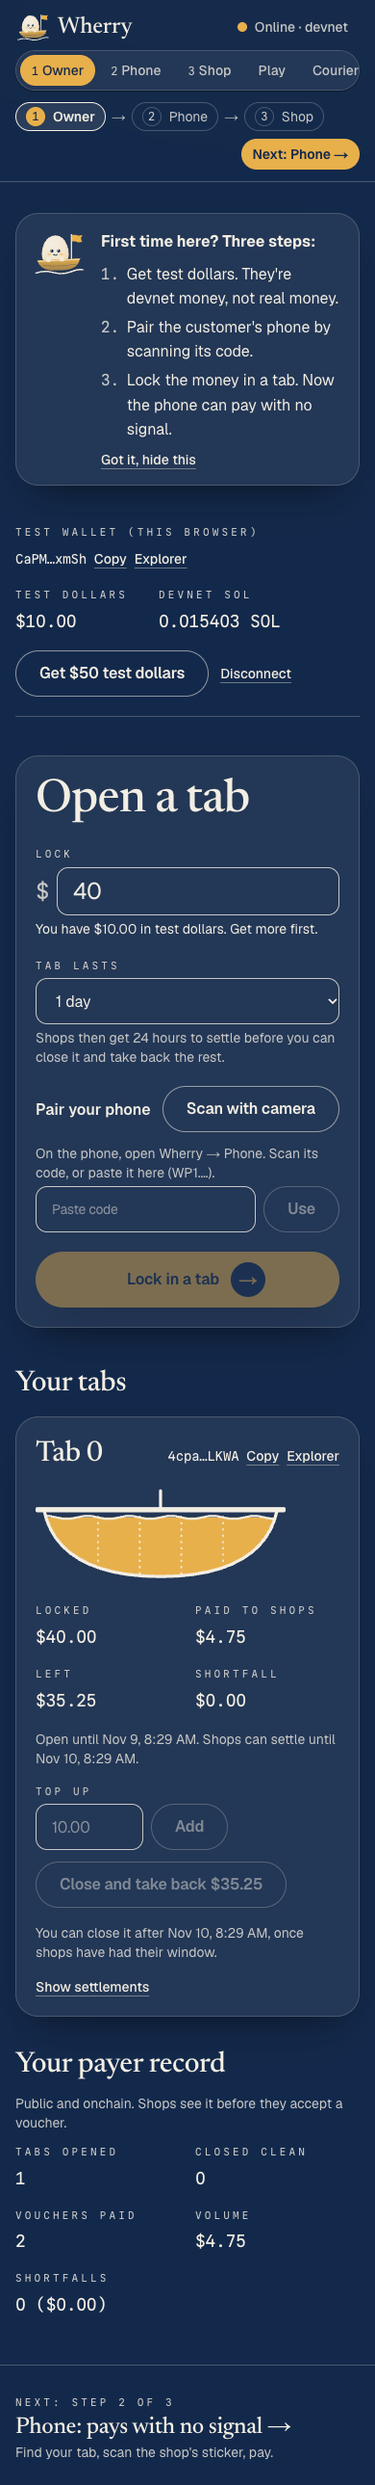
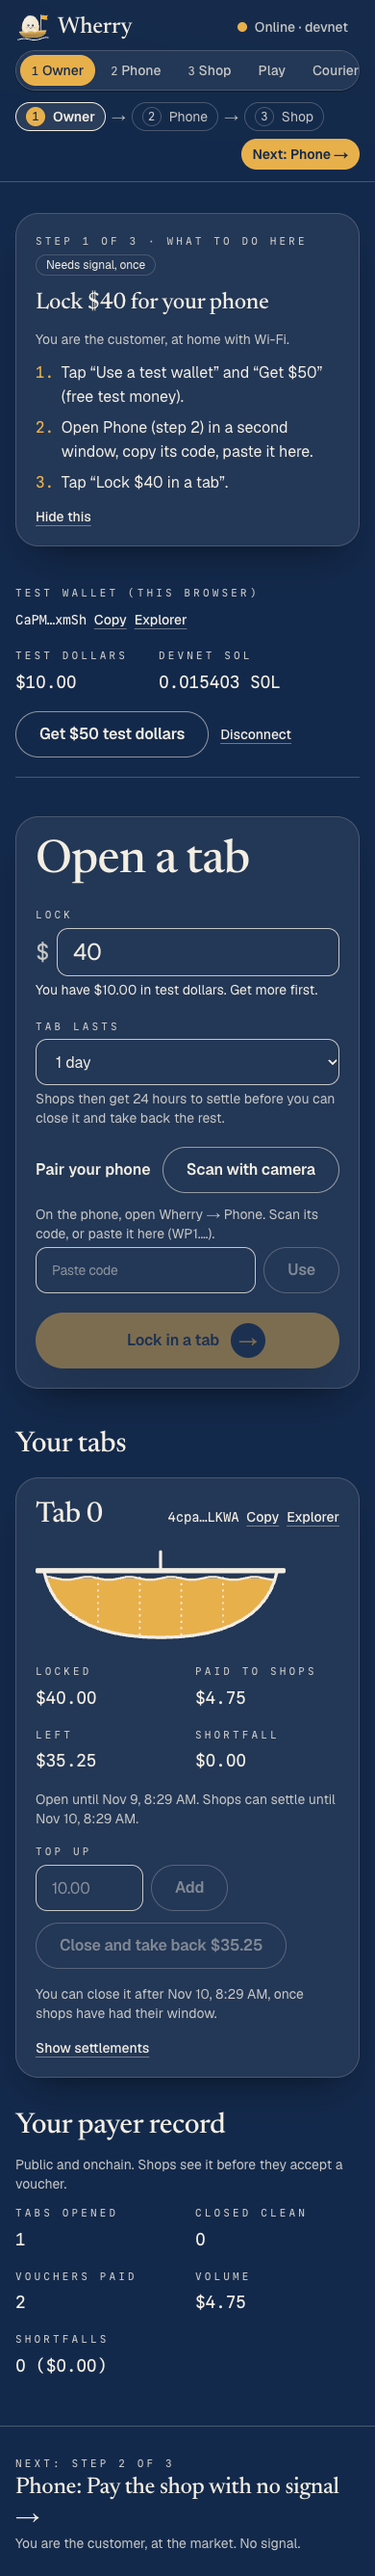
Judge navigation: "What to do here" on every step page, Phone + Shop side-by-side button, hero opens the steps overview

diff --git a/app/components/guide.tsx b/app/components/guide.tsx
@@ -72,25 +72,40 @@ const FIRST_RUN = {
   shop: ["Scan the customer's offline payment.", "Check it: signature, money left in their tab, your limits. All offline.", "Collect your money when the network is back."],
 } as const;
 
-/** Doggett's 3-step first-run guide for a role. Dismissed once per browser. */
+const PAGE = { owner: "/app/owner", phone: "/app/phone", shop: "/app/shop" } as const;
+
+/** "What to do here": the step's 1-2-3 in plain words, at the top of each step page. Hideable once per browser. */
 export function FirstRun({ role }: { role: keyof typeof FIRST_RUN }) {
-  const key = `wherry:first-run:${role}`;
-  const [open, setOpen] = useState(false);
+  const key = `wherry:what-to-do:${role}`;
+  const [open, setOpen] = useState(true);
   useEffect(() => {
     try {
-      if (!localStorage.getItem(key)) Promise.resolve().then(() => setOpen(true));
+      if (localStorage.getItem(key)) Promise.resolve().then(() => setOpen(false));
     } catch {}
   }, [key]);
-  if (!open) return null;
+  const href = role === "courier" ? undefined : PAGE[role];
+  const c = href ? STEP_COPY[href] : undefined;
+  const step = href ? STEPS.find((s) => s.href === href) : undefined;
+  if (!open)
+    return (
+      <button type="button" className="link self-start text-sm" onClick={() => (setOpen(true), localStorage.removeItem(key))}>
+        Show what to do here
+      </button>
+    );
   return (
-    <aside aria-label="First time here?" className="paper flex gap-4 p-4">
-      <Doggett pose="welcome" size={56} decorative />
-      <div className="flex min-w-0 flex-1 flex-col gap-2">
-        <p className="font-bold">First time here? Three steps:</p>
-        <ol className="flex flex-col gap-1">
-          {FIRST_RUN[role].map((line, i) => (
+    <aside aria-label="What to do here" className="paper flex gap-4 p-5">
+      <Doggett pose="welcome" size={64} decorative className="hidden sm:block" />
+      <div className="flex min-w-0 flex-1 flex-col gap-3">
+        <div className="flex flex-wrap items-baseline gap-x-3 gap-y-1">
+          <p className="label">{step ? `Step ${step.n} of 3 · what to do here` : "What to do here"}</p>
+          {c && <span className="rounded-full border border-line px-2.5 py-0.5 text-xs">{c.signal}</span>}
+        </div>
+        {c && <p className="display text-2xl">{c.action}</p>}
+        {c && <p className="text-sm text-muted">{c.who}</p>}
+        <ol className="flex flex-col gap-1.5">
+          {(c?.doIt ?? FIRST_RUN[role]).map((line, i) => (
             <li key={i} className="flex gap-2">
-              <span className="mono text-muted">{i + 1}.</span>
+              <span className="mono text-accent">{i + 1}.</span>
               <span>{line}</span>
             </li>
           ))}
@@ -105,7 +120,7 @@ export function FirstRun({ role }: { role: keyof typeof FIRST_RUN }) {
             } catch {}
           }}
         >
-          Got it, hide this
+          Hide this
         </button>
       </div>
     </aside>

diff --git a/app/app/page.tsx b/app/app/page.tsx
@@ -3,6 +3,7 @@ import { Doggett } from "../components/doggett";
 import { HullGauge } from "../components/hull";
 import { STEP_COPY } from "../components/step-copy";
 import { Ticket } from "../components/ticket";
+import { TwoWindows } from "../components/two-windows";
 import { STEPS } from "../lib/steps.ts";
 
 export const metadata = { title: "Try it in 60 seconds" };
@@ -32,6 +33,12 @@ export default function AppHome() {
             A customer locks money, pays a shop with no signal, and the shop collects. Do the steps in order. On one laptop, keep the Phone and the Shop open in two
             windows side by side and copy-paste the codes between them.
           </p>
+          <div className="flex flex-wrap items-center gap-3 pt-2">
+            <Link href="/app/owner" className="btn btn-sail">
+              Start with step 1
+            </Link>
+            <TwoWindows />
+          </div>
         </div>
         <Doggett pose="welcome" size={150} className="hidden md:block" />
       </div>
@@ -65,7 +72,7 @@ export default function AppHome() {
                   <span className="font-semibold">Result: </span>
                   <span className="text-muted">{c.result}</span>
                 </p>
-                <span className={`btn mt-auto self-start ${i === 0 ? "btn-sail" : "btn-quiet"}`}>Open step {s.n}</span>
+                <span className="btn btn-quiet mt-auto self-start">Open step {s.n} →</span>
               </Link>
             </li>
           );

diff --git a/app/page.tsx b/app/page.tsx
@@ -72,7 +72,7 @@ export default function Landing() {
             <h1 className="text-[clamp(52px,8vw,112px)] [text-shadow:0_2px_30px_color-mix(in_srgb,var(--w-navy)_80%,transparent)]">
               Pay with <em className="italic text-accent">no signal.</em>
             </h1>
-            <Link href="/app/owner" className="btn-gold rounded-full px-10 py-4 text-lg font-semibold">
+            <Link href="/app" className="btn-gold rounded-full px-10 py-4 text-lg font-semibold">
               Start the demo
             </Link>
             <div className="flex max-w-[680px] flex-col gap-5 text-left text-lg md:text-xl [text-shadow:0_1px_12px_color-mix(in_srgb,var(--w-navy)_90%,transparent)]">

diff --git a/app/components/two-windows.tsx b/app/components/two-windows.tsx
@@ -1,0 +1,18 @@
+"use client";
+
+/** One click for judges on a laptop: opens the Phone and the Shop as two windows side by side. */
+export function TwoWindows({ className = "" }: { className?: string }) {
+  return (
+    <button
+      type="button"
+      className={`btn btn-quiet ${className}`}
+      onClick={() => {
+        const h = Math.min(window.screen.availHeight, 960);
+        window.open("/app/phone", "wherry-phone", `popup,width=420,height=${h},left=0,top=0`);
+        window.open("/app/shop", "wherry-shop", `popup,width=${Math.max(900, window.screen.availWidth - 440)},height=${h},left=440,top=0`);
+      }}
+    >
+      Open Phone + Shop side by side
+    </button>
+  );
+}

diff --git a/app/components/step-copy.ts b/app/components/step-copy.ts
@@ -13,7 +13,7 @@ export const STEP_COPY: Record<string, StepCopy> = {
     who: "You are the customer, at home with Wi-Fi.",
     action: "Lock $40 for your phone",
     short: "lock $40",
-    doIt: ["Tap “Use a test wallet” and “Get $50” (free test money).", "Paste your phone’s code (from step 2’s page).", "Tap “Lock $40 in a tab”."],
+    doIt: ["Tap “Use a test wallet” and “Get $50” (free test money).", "Open Phone (step 2) in a second window, copy its code, paste it here.", "Tap “Lock $40 in a tab”."],
     signal: "Needs signal, once",
     result: "$40 is locked on Solana for your phone. Nobody can spend it twice.",
   },
